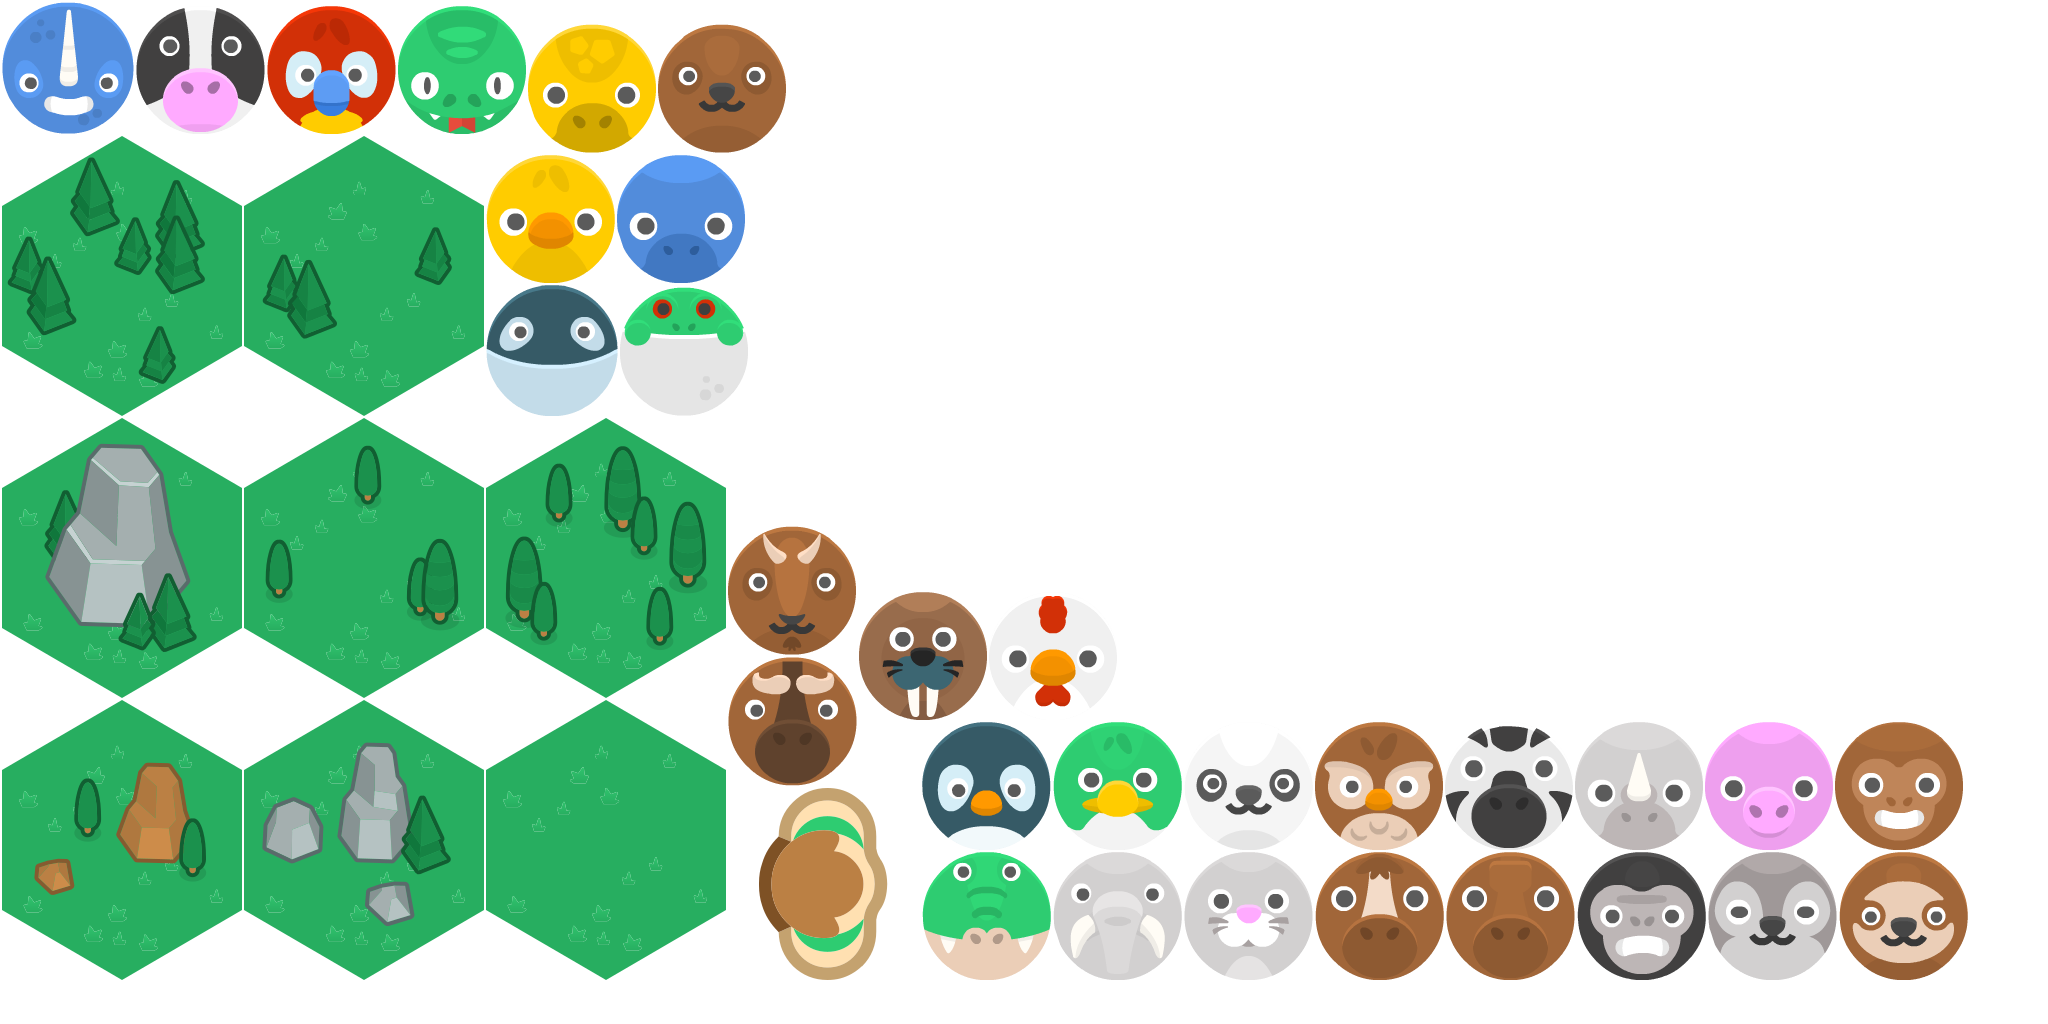
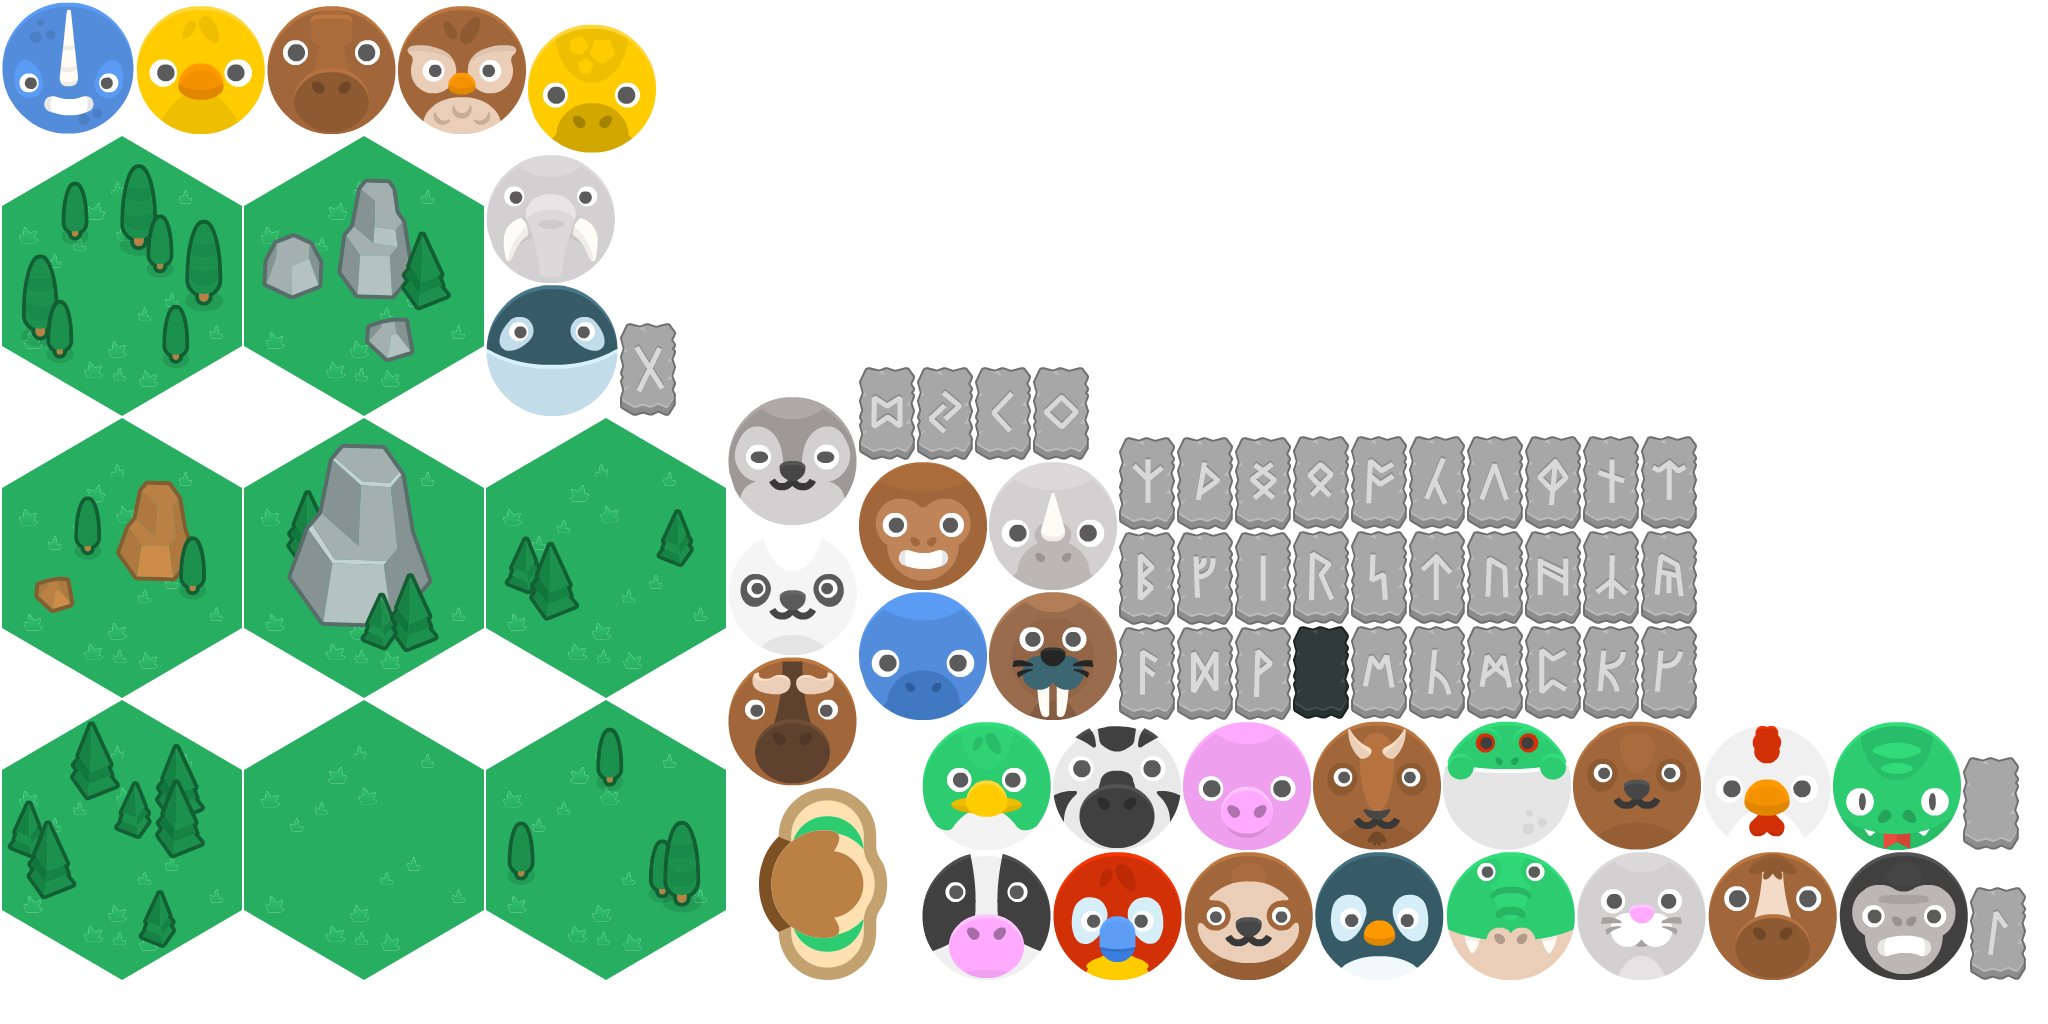
Added mand

diff --git a/core/src/com/github/samelvhatargh/druid/systems/MiscRender.kt b/core/src/com/github/samelvhatargh/druid/systems/MiscRender.kt
@@ -3,6 +3,7 @@ package com.github.samelvhatargh.druid.systems
 import com.badlogic.ashley.core.EntitySystem
 import com.badlogic.gdx.graphics.Camera
 import com.badlogic.gdx.graphics.g2d.SpriteBatch
+import com.github.samelvhatargh.druid.Config.cameraWidth
 import com.github.samelvhatargh.druid.SpriteCache
 import com.github.samelvhatargh.druid.getDruid
 import ktx.graphics.use
@@ -25,6 +26,8 @@ class MiscRender(private val batch: SpriteBatch, private val camera: Camera, pri
     val height = 10
 
     val map: Array<Array<Tile>>
+
+    val runes: Array<Int>
 
     init {
         map = Array(width) { Array(height) { Tile.SMALL_FOREST } }
@@ -68,24 +71,38 @@ class MiscRender(private val batch: SpriteBatch, private val camera: Camera, pri
                 map[i][j] = probabilities.random()
             }
         }
+
+        runes = Array(50) { 1 }
+        for (i in runes.indices) {
+            runes[i] = (1..35).random()
+        }
     }
 
     override fun update(deltaTime: Float) {
         val druid = engine.getDruid()
-        batch.use {
+        batch.use() {
             for (i in map.indices) {
                 for (j in map[i].indices) {
                     val tile = spriteCache.getSprite(map[i][j].sprite)
                     val scale = 5f
                     val dx = if (j % 2 == 0) 0f else scale / 2
-                    tile.setPosition((i - width / 2)* scale + dx, (j - height / 2) * (scale * 24/28f))
-                    tile.setSize(1f * scale, 28/24f * scale)
+                    tile.setPosition((i - width / 2) * scale + dx, (j - height / 2) * (scale * 24 / 28f))
+                    tile.setSize(1f * scale, 28 / 24f * scale)
                     tile.draw(batch)
                 }
             }
         }
-
         batch.use(camera.combined) {
+            var manaDrawn = 0
+            for (i in 1..druid.maxMana) {
+                val rune = if (manaDrawn < druid.mana) spriteCache.getSprite("runeGrey_slabOutline", runes[i])
+                    else spriteCache.getSprite("runeBlack_slabOutline", 35)
+                rune.setSize(56/93f, 1f)
+                rune.setPosition((i - cameraWidth / 2) * .75f - 5.5f, 10f)
+                rune.draw(batch)
+                manaDrawn++
+            }
+
             val sprite = spriteCache.getSprite("dude")
 
             sprite.setPosition(-.5f, -.5f)

diff --git a/core/src/com/github/samelvhatargh/druid/SpriteCache.kt b/core/src/com/github/samelvhatargh/druid/SpriteCache.kt
@@ -15,16 +15,17 @@ class SpriteCache(private val atlas: TextureAtlas) {
 
     private val cache = mutableMapOf<String, Sprite>()
 
-    fun getSprite(name: String): Sprite {
-        var sprite = cache[name]
+    fun getSprite(name: String, index: Int = -1): Sprite {
+        val key = "${name}_$index"
+        var sprite = cache[key]
         if (sprite == null) {
-            val region = atlas.findRegion(name)
-            require(region != null) { "Cant load sprite $name" }
+            val region = atlas.findRegion(name, index)
+            require(region != null) { "Cant load sprite $key" }
 
             sprite = Sprite(region).apply {
                 setSize(1f, 1f)
             }
-            cache[name] = sprite
+            cache[key] = sprite
 
             log.debug { "sprite $name created" }
         }

diff --git a/core/src/com/github/samelvhatargh/druid/Config.kt b/core/src/com/github/samelvhatargh/druid/Config.kt
@@ -3,9 +3,9 @@ package com.github.samelvhatargh.druid
 object Config {
     //camera
     const val cameraScale = 2.5f
-    const val windowWidth = 9 * 96
+    const val windowWidth = 16 * 96
     const val windowHeight = 9 * 96
-    const val cameraWidth = 9f * cameraScale
+    const val cameraWidth = 16f * cameraScale
     const val cameraHeight = 9f * cameraScale
 
     //player input
@@ -18,4 +18,7 @@ object Config {
     const val spawnRate = 2f
     const val spawnDistance = cameraHeight / 2
     const val spawnDebug = false
+
+    //gameplay
+    const val maxMana = 4 * 3 * 3 - 9
 }

diff --git a/core/src/com/github/samelvhatargh/druid/components/Druid.kt b/core/src/com/github/samelvhatargh/druid/components/Druid.kt
@@ -2,6 +2,7 @@ package com.github.samelvhatargh.druid.components
 
 import com.badlogic.ashley.core.Component
 import com.badlogic.gdx.utils.Pool
+import com.github.samelvhatargh.druid.Config
 import ktx.ashley.mapperFor
 
 class Druid : Component, Pool.Poolable {
@@ -9,6 +10,8 @@ class Druid : Component, Pool.Poolable {
     var angle = 0f
     var radius = 1f
     var animalsCount = 0
+    var maxMana = Config.maxMana
+    var mana = maxMana
 
     override fun reset() {
         angle = 0f

diff --git a/core/src/com/github/samelvhatargh/druid/systems/LevelUp.kt b/core/src/com/github/samelvhatargh/druid/systems/LevelUp.kt
@@ -49,6 +49,7 @@ class LevelUp : EntitySystem() {
                     engine.removeEntity(previousEntity)
                     engine.removeEntity(nextEntity)
                     engine.getDruid().animalsCount -= 2
+                    engine.getDruid().mana += 2
                     engine.getDruid().radius -= .2f
                     animals.remove(previousEntity)
                     animals.remove(nextEntity)

diff --git a/core/src/com/github/samelvhatargh/druid/systems/Collect.kt b/core/src/com/github/samelvhatargh/druid/systems/Collect.kt
@@ -59,6 +59,7 @@ class Collect : IteratingSystem(allOf(Animal::class, Position::class).exclude(Co
             }
 
             druid.animalsCount++
+            druid.mana--
             druid.radius += .1f
         }
     }
